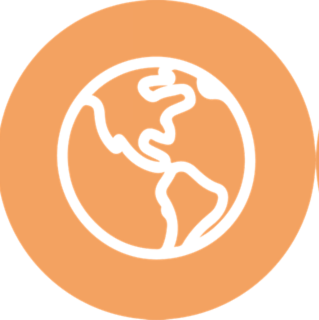
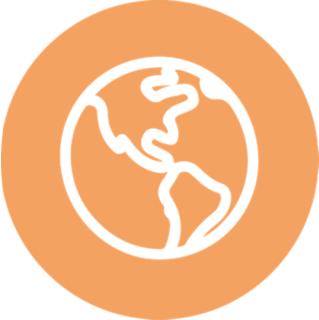
Fixed issue with geography image and increased size of category images. Known issue with selecting category hitboxes

diff --git a/main.py b/main.py
@@ -26,7 +26,7 @@ class Main:
         self.music_channel = pg.mixer.find_channel()
 
     def loadQuestions(self):
-        self.displayStat = False #print out question stats
+        self.displayStat = True #print out question stats
         self.allQuestions = json.load(open('questions/questions.json'))
         self.numberOfQuestions = len(self.allQuestions)
         if self.displayStat:
@@ -82,7 +82,7 @@ class Main:
             self.numbers_images.append(pg.transform.scale(pg.image.load(path.join(img_folder, image)).convert_alpha(), (27, 53)))#
         self.icon_images = {}
         for icon_image in ICON_IMAGES:
-            self.icon_images[icon_image] = pg.transform.scale(pg.image.load(path.join(img_folder, ICON_IMAGES[icon_image])).convert_alpha(), (175, 175))
+            self.icon_images[icon_image] = pg.transform.scale(pg.image.load(path.join(img_folder, ICON_IMAGES[icon_image])).convert_alpha(), (230, 230))
         self.incorrect_image = pg.image.load(path.join(img_folder, INCORRECT_IMAGE)).convert_alpha()
         self.tint_image = pg.transform.scale( pg.image.load(path.join(img_folder, TINT_IMAGE)).convert_alpha(), (WIDTH, HEIGHT))
         self.disabled_icon_image = pg.transform.scale( pg.image.load(path.join(img_folder, DISABLED_ICON_IMAGE)).convert_alpha(), (NEWGAME_MENU_CATEGORY_ICON_SIZE + 26, NEWGAME_MENU_CATEGORY_ICON_SIZE + 26))
@@ -205,6 +205,7 @@ class Main:
             for category in question['categories']:
                 if category not in categoriesCounts.keys():
                     categoriesCounts[category] = 1
+
                 else:
                     categoriesCounts[category] = categoriesCounts[category] + 1
 
@@ -214,7 +215,8 @@ class Main:
         for category in categoriesCounts.keys():
             if category not in self.icon_images.keys():
                 categoriesWithoutIcons.append(category)
-        #categoriesWithoutIcons.sort()
+        #category
+        categoriesWithoutIcons.sort()
         print("Categories without Icons: ", categoriesWithoutIcons)
         categoriesWithoutIconsOrdered = {}
 

diff --git a/sprites.py b/sprites.py
@@ -201,10 +201,11 @@ class CategoryIcon(pg.sprite.Sprite):
 
     def drawCircle(self):
         #pg.draw.rect(self.main.screen, (244, 162, 97), (self.x + 16, self.y + 16, self.image.get_width() + 10, self.image.get_height() + 10))
-        pg.draw.rect(self.main.screen, (244, 162, 97), (self.x - 24, self.y, self.image.get_width() + 48, self.image.get_height() + 2))
-        pg.draw.rect(self.main.screen, ICON_CATEGORY_COLOUR, (self.x - 20, self.y, self.image.get_width() + 40, self.image.get_height() + 2))
-        #pg.draw.circle(self.main.screen, (244, 162, 97), (self.x + self.image.get_width() / 2, self.y + self.image.get_height() / 2),  self.image.get_width() / 2 + 10)
+        #pg.draw.rect(self.main.screen, (244, 162, 97), (self.x - 24, self.y, self.image.get_width() + 48, self.image.get_height() + 2))
+        #pg.draw.rect(self.main.screen, ICON_CATEGORY_COLOUR, (self.x - 20, self.y, self.image.get_width() + 40, self.image.get_height() + 2))
+        #pg.draw.circle(self.main.screen, (255,250,255), (self.x + self.image.get_width() / 2, self.y + self.image.get_height() / 2),  self.image.get_width() / 2 - 10)
         #pg.draw.circle(self.main.screen, ICON_CATEGORY_COLOUR, (self.x + self.image.get_width() / 2, self.y + self.image.get_height() / 2),  self.image.get_width() / 2 + 5)
+        pass
 
 class MainMenuBackgroundIcon(pg.sprite.Sprite):
     def __init__(self, main):

diff --git a/game.py b/game.py
@@ -15,7 +15,7 @@ class Game():
         self.panels = []
         self.question = ""
         self.colour = self.colour_scheme[0]
-        self.categoryIcon = CategoryIcon(main, 2.5 * TILESIZE, 6.5 * TILESIZE)
+        self.categoryIcon = CategoryIcon(main, 2 * TILESIZE, 6 * TILESIZE)
         self.startGame()
         self.createLights()
         self.startTime = NORMAL_START_TIME

diff --git a/settings.py b/settings.py
@@ -56,7 +56,7 @@ INCORRECT_COLOUR_UPDATE_TIME = 450
 INCORRECT_ANIMATION_DUTATION = 3000
 CATEGORY_ICON_ROTATE_SPEED = 100
 CATEGORY_ICON_ROTATE_ANGLE = -20
-BACKGROUND_ICON_SPAWN_CHANCE = 70
+BACKGROUND_ICON_SPAWN_CHANCE = 60
 
 MIN_NUM_OF_QUESTIONS_TO_PLAY = 100
 
